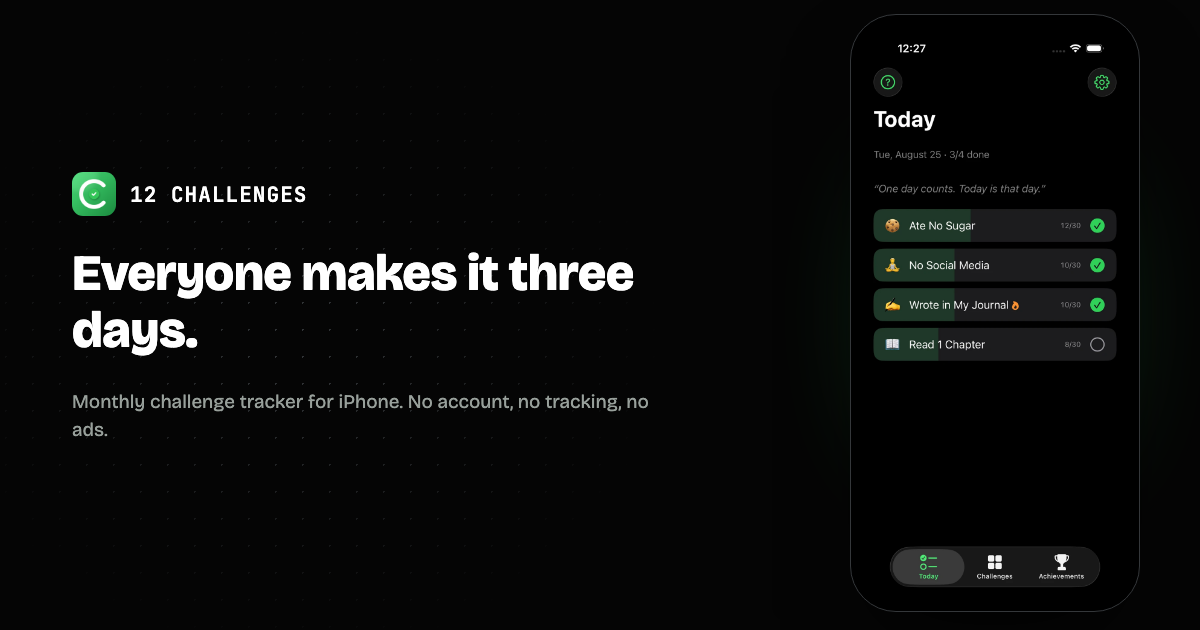
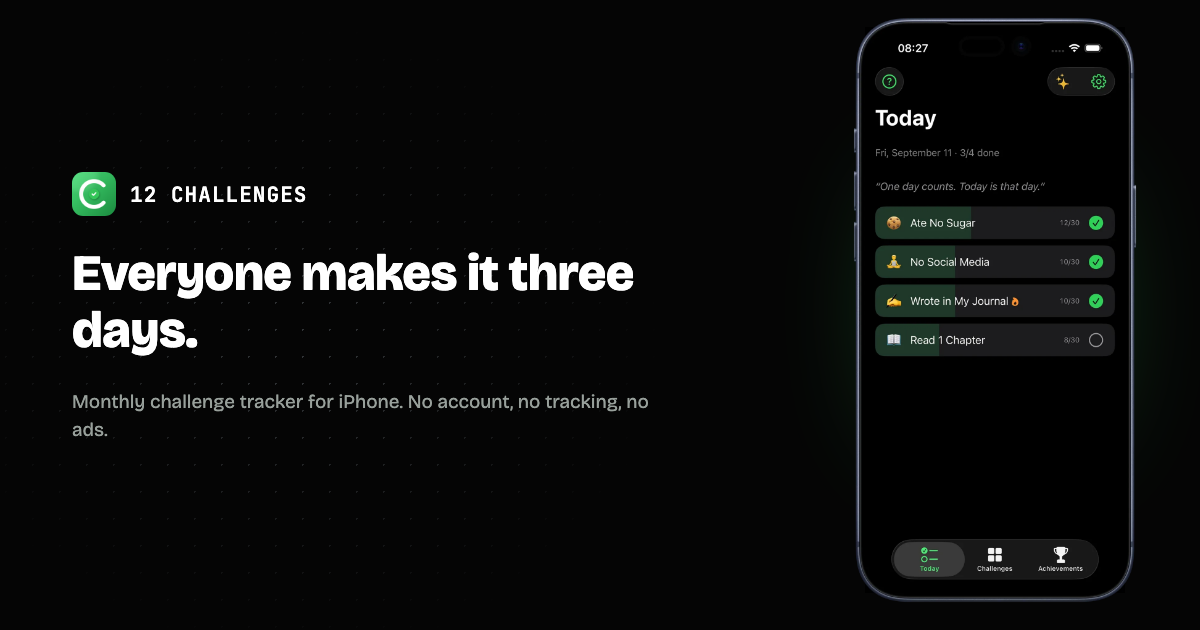
feat: OG-Vorschaubilder für alle neun Sprachen
Italienisch, Türkisch, Polnisch und Griechisch hatten bisher kein eigenes
Vorschaubild und verwiesen aufs deutsche; ihre Challenge-Ideen-Seiten
zeigten sogar auf das spanische, weil das aus der Übersetzungsvorlage
mitgekommen war.

Das Template zeichnete das iPhone bisher per CSS nach, mit demselben
Rezept wie früher die Website. Seit die Seite echte Apple-Rahmen zeigt,
sah das Vorschaubild damit anders aus als die Seite, auf die es verweist.
Es nutzt jetzt dasselbe fertige Mock-up aus assets/mock/.

Claude-Session: https://claude.ai/code/session_019392Hc5CKbG7TcGZ7r8wp9

Changed region(s): [[0.7092, 0.0, 0.9558, 0.9651]]

diff --git a/scripts/og-image/template.html b/scripts/og-image/template.html
@@ -94,9 +94,8 @@
     color: var(--text-secondary);
   }
 
-  /* --- phone mockup: same recipe as .phone-wrap/.phone-frame/.phone-screen
-     in the site's own styles.css, just placed absolutely for the OG canvas.
-     Content is a real app screenshot, not a redrawn UI. --- */
+  /* --- phone mockup: the same finished image the site uses, just placed
+     absolutely for the OG canvas. --- */
   .phone-wrap {
     position: absolute;
     right: 60px;
@@ -112,40 +111,14 @@
     filter: blur(50px);
     z-index: 0;
   }
-  .phone-frame {
+  /* Fertiges Mock-up aus scripts/geraete-mockups/: Screenshot im echten
+     Apple-Rahmen. Vorher zeichnete dieses Template den Rahmen selbst nach,
+     wodurch das Vorschaubild anders aussah als die Seite, auf die es
+     verweist. */
+  .phone-wrap img {
     position: relative;
     z-index: 1;
     width: 100%;
-    background: #000;
-    border: 1px solid var(--border-visible);
-    border-radius: 46px;
-    padding: 12px;
-    box-shadow: 0 40px 90px -30px rgba(0, 0, 0, 0.85);
-  }
-  .phone-frame::before {
-    content: "";
-    position: absolute;
-    top: 22px;
-    left: 50%;
-    transform: translateX(-50%);
-    width: 34%;
-    height: 22px;
-    background: #000;
-    border-radius: 20px;
-    z-index: 2;
-  }
-  .phone-screen {
-    width: 100%;
-    aspect-ratio: 9 / 19.5;
-    border-radius: 34px;
-    overflow: hidden;
-    background: #000;
-  }
-  .phone-screen img {
-    width: 100%;
-    height: 100%;
-    object-fit: cover;
-    object-position: top;
     display: block;
   }
 </style>
@@ -163,11 +136,7 @@
   <div class="sub">{{SUBTEXT}}</div>
 
   <div class="phone-wrap">
-    <div class="phone-frame">
-      <div class="phone-screen">
-        <img src="../../assets/{{SCREENSHOT}}" alt="" />
-      </div>
-    </div>
+    <img src="../../assets/{{SCREENSHOT}}" alt="" />
   </div>
 
 </body>

diff --git a/el/idees-challenge/index.html b/el/idees-challenge/index.html
@@ -6,7 +6,7 @@ title: "50 ιδέες για challenge: έμπνευση για 30 μέρες"
 description: "50 ρεαλιστικές ιδέες για challenge 30 ημερών σε οκτώ κατηγορίες, από την άθληση ως τα οικονομικά. Καθεμία με την αιτιολόγηση γιατί δουλεύει ως μηνιαίο challenge."
 og_title: "50 ideas de challenges: inspiración para tu challenge de 30 días"
 og_description: "50 ideas realistas de challenges de 30 días en ocho categorías, de deporte a finanzas. Cada una con un motivo por el que funciona como challenge mensual."
-og_image: /assets/og-image-es.png
+og_image: /assets/og-image-el.png
 og_locale: es_ES
 ---
   <script type="application/ld+json">

diff --git a/pl/index.html b/pl/index.html
@@ -6,7 +6,7 @@ title: "12 Challenges: miesięczne challenge’e i nawyki na iPhone’a"
 description: "Buduj nowe nawyki i nie odpuszczaj: 12 Challenges to darmowa aplikacja na iPhone’a do miesięcznych challenge’ów. Działa lokalnie, synchronizacja iCloud opcjonalnie, bez reklam."
 og_title: "12 Challenges: miesięczne challenge’e i nawyki na iPhone’a"
 og_description: "Trzymaj się swoich celów: buduj nawyki miesięcznymi challenge’ami, jedno tapnięcie dziennie. Za darmo, bez konta, bez śledzenia, bez reklam."
-og_image: /assets/og-image-de.png
+og_image: /assets/og-image-pl.png
 og_locale: pl_PL
 ---
   <script type="application/ld+json">

diff --git a/it/index.html b/it/index.html
@@ -6,7 +6,7 @@ title: "12 Challenges: challenge mensili e abitudini per iPhone"
 description: "Costruisci nuove abitudini e non mollare: 12 Challenges è l’app gratuita per iPhone con challenge mensili. Funziona in locale, sincronizzazione iCloud opzionale, senza pubblicità."
 og_title: "12 Challenges: challenge mensili e abitudini per iPhone"
 og_description: "Resta fedele ai tuoi obiettivi: costruisci abitudini con challenge mensili, un tocco al giorno. Gratis, senza account, senza tracciamento, senza pubblicità."
-og_image: /assets/og-image-de.png
+og_image: /assets/og-image-it.png
 og_locale: it_IT
 ---
   <script type="application/ld+json">

diff --git a/tr/index.html b/tr/index.html
@@ -6,7 +6,7 @@ title: "12 Challenges: iPhone için aylık challenge ve alışkanlıklar"
 description: "Yeni alışkanlıklar edin ve devam et: 12 Challenges, aylık challenge’lar için ücretsiz iPhone uygulaması. Yerel çalışır, iCloud eşitlemesi isteğe bağlı, reklamsız."
 og_title: "12 Challenges: iPhone için aylık challenge ve alışkanlıklar"
 og_description: "Hedeflerinden kopma: aylık challenge’larla yeni alışkanlıklar edin, günde bir dokunuş. Ücretsiz, hesapsız, takipsiz, reklamsız."
-og_image: /assets/og-image-de.png
+og_image: /assets/og-image-tr.png
 og_locale: tr_TR
 ---
   <script type="application/ld+json">

diff --git a/it/idee-challenge/index.html b/it/idee-challenge/index.html
@@ -6,7 +6,7 @@ title: "50 idee di challenge: ispirazione per la tua challenge di 30 giorni"
 description: "50 idee realistiche di challenge da 30 giorni in otto categorie, dallo sport alle finanze. Ognuna con il motivo per cui funziona come challenge mensile."
 og_title: "50 ideas de challenges: inspiración para tu challenge de 30 días"
 og_description: "50 ideas realistas de challenges de 30 días en ocho categorías, de deporte a finanzas. Cada una con un motivo por el que funciona como challenge mensual."
-og_image: /assets/og-image-es.png
+og_image: /assets/og-image-it.png
 og_locale: es_ES
 ---
   <script type="application/ld+json">

diff --git a/pl/pomysly-na-challenge/index.html b/pl/pomysly-na-challenge/index.html
@@ -6,7 +6,7 @@ title: "50 pomysłów na challenge: inspiracja na 30 dni"
 description: "50 realistycznych pomysłów na 30-dniowy challenge w ośmiu kategoriach, od sportu po finanse. Każdy z uzasadnieniem, dlaczego działa jako challenge miesięczny."
 og_title: "50 ideas de challenges: inspiración para tu challenge de 30 días"
 og_description: "50 ideas realistas de challenges de 30 días en ocho categorías, de deporte a finanzas. Cada una con un motivo por el que funciona como challenge mensual."
-og_image: /assets/og-image-es.png
+og_image: /assets/og-image-pl.png
 og_locale: es_ES
 ---
   <script type="application/ld+json">

diff --git a/tr/challenge-fikirleri/index.html b/tr/challenge-fikirleri/index.html
@@ -6,7 +6,7 @@ title: "50 challenge fikri: 30 günlük challenge’ın için ilham"
 description: "Spordan finansa, sekiz kategoride 30 günlük 50 gerçekçi challenge fikri. Her biri, aylık challenge olarak neden işe yaradığının gerekçesiyle."
 og_title: "50 ideas de challenges: inspiración para tu challenge de 30 días"
 og_description: "50 ideas realistas de challenges de 30 días en ocho categorías, de deporte a finanzas. Cada una con un motivo por el que funciona como challenge mensual."
-og_image: /assets/og-image-es.png
+og_image: /assets/og-image-tr.png
 og_locale: es_ES
 ---
   <script type="application/ld+json">

diff --git a/scripts/og-image/generate.py b/scripts/og-image/generate.py
@@ -20,27 +20,47 @@ CONTENT = {
     "de": dict(
         HEADLINE="Die ersten drei Tage schafft jeder.",
         SUBTEXT="Monats-Challenge-Tracker für iPhone. Kein Account, kein Tracking, keine Werbung.",
-        SCREENSHOT="screenshot-heute-de.webp",
+        SCREENSHOT="mock/heute-de.webp",
     ),
     "en": dict(
         HEADLINE="Everyone makes it three days.",
         SUBTEXT="Monthly challenge tracker for iPhone. No account, no tracking, no ads.",
-        SCREENSHOT="screenshot-heute-en.webp",
+        SCREENSHOT="mock/heute-en.webp",
     ),
     "es": dict(
         HEADLINE="Los primeros tres días los aguanta cualquiera.",
         SUBTEXT="Seguimiento de challenges mensuales para iPhone. Sin cuenta, sin tracking, sin anuncios.",
-        SCREENSHOT="screenshot-heute-es.webp",
+        SCREENSHOT="mock/heute-es.webp",
     ),
     "fr": dict(
         HEADLINE="Les trois premiers jours, tout le monde y arrive.",
         SUBTEXT="Suivi de challenges mensuels pour iPhone. Sans compte, sans tracking, sans pub.",
-        SCREENSHOT="screenshot-heute-fr.webp",
+        SCREENSHOT="mock/heute-fr.webp",
+    ),
+    "it": dict(
+        HEADLINE="I primi tre giorni li regge chiunque.",
+        SUBTEXT="Tracker di challenge mensili per iPhone. Senza account, senza tracciamento, senza pubblicità.",
+        SCREENSHOT="mock/heute-it.webp",
+    ),
+    "tr": dict(
+        HEADLINE="İlk üç günü herkes götürür.",
+        SUBTEXT="iPhone için aylık challenge takibi. Hesap yok, takip yok, reklam yok.",
+        SCREENSHOT="mock/heute-tr.webp",
+    ),
+    "pl": dict(
+        HEADLINE="Pierwsze trzy dni wytrzyma każdy.",
+        SUBTEXT="Śledzenie miesięcznych challenge’ów na iPhone’a. Bez konta, bez śledzenia, bez reklam.",
+        SCREENSHOT="mock/heute-pl.webp",
+    ),
+    "el": dict(
+        HEADLINE="Τις πρώτες τρεις μέρες τις βγάζει ο καθένας.",
+        SUBTEXT="Παρακολούθηση μηνιαίων challenges για iPhone. Χωρίς λογαριασμό, χωρίς παρακολούθηση, χωρίς διαφημίσεις.",
+        SCREENSHOT="mock/heute-el.webp",
     ),
     "pt": dict(
         HEADLINE="Os primeiros três dias qualquer um aguenta.",
         SUBTEXT="Acompanhamento de challenges mensais para iPhone. Sem conta, sem tracking, sem anúncios.",
-        SCREENSHOT="screenshot-heute-pt.webp",
+        SCREENSHOT="mock/heute-pt.webp",
     ),
 }
 
